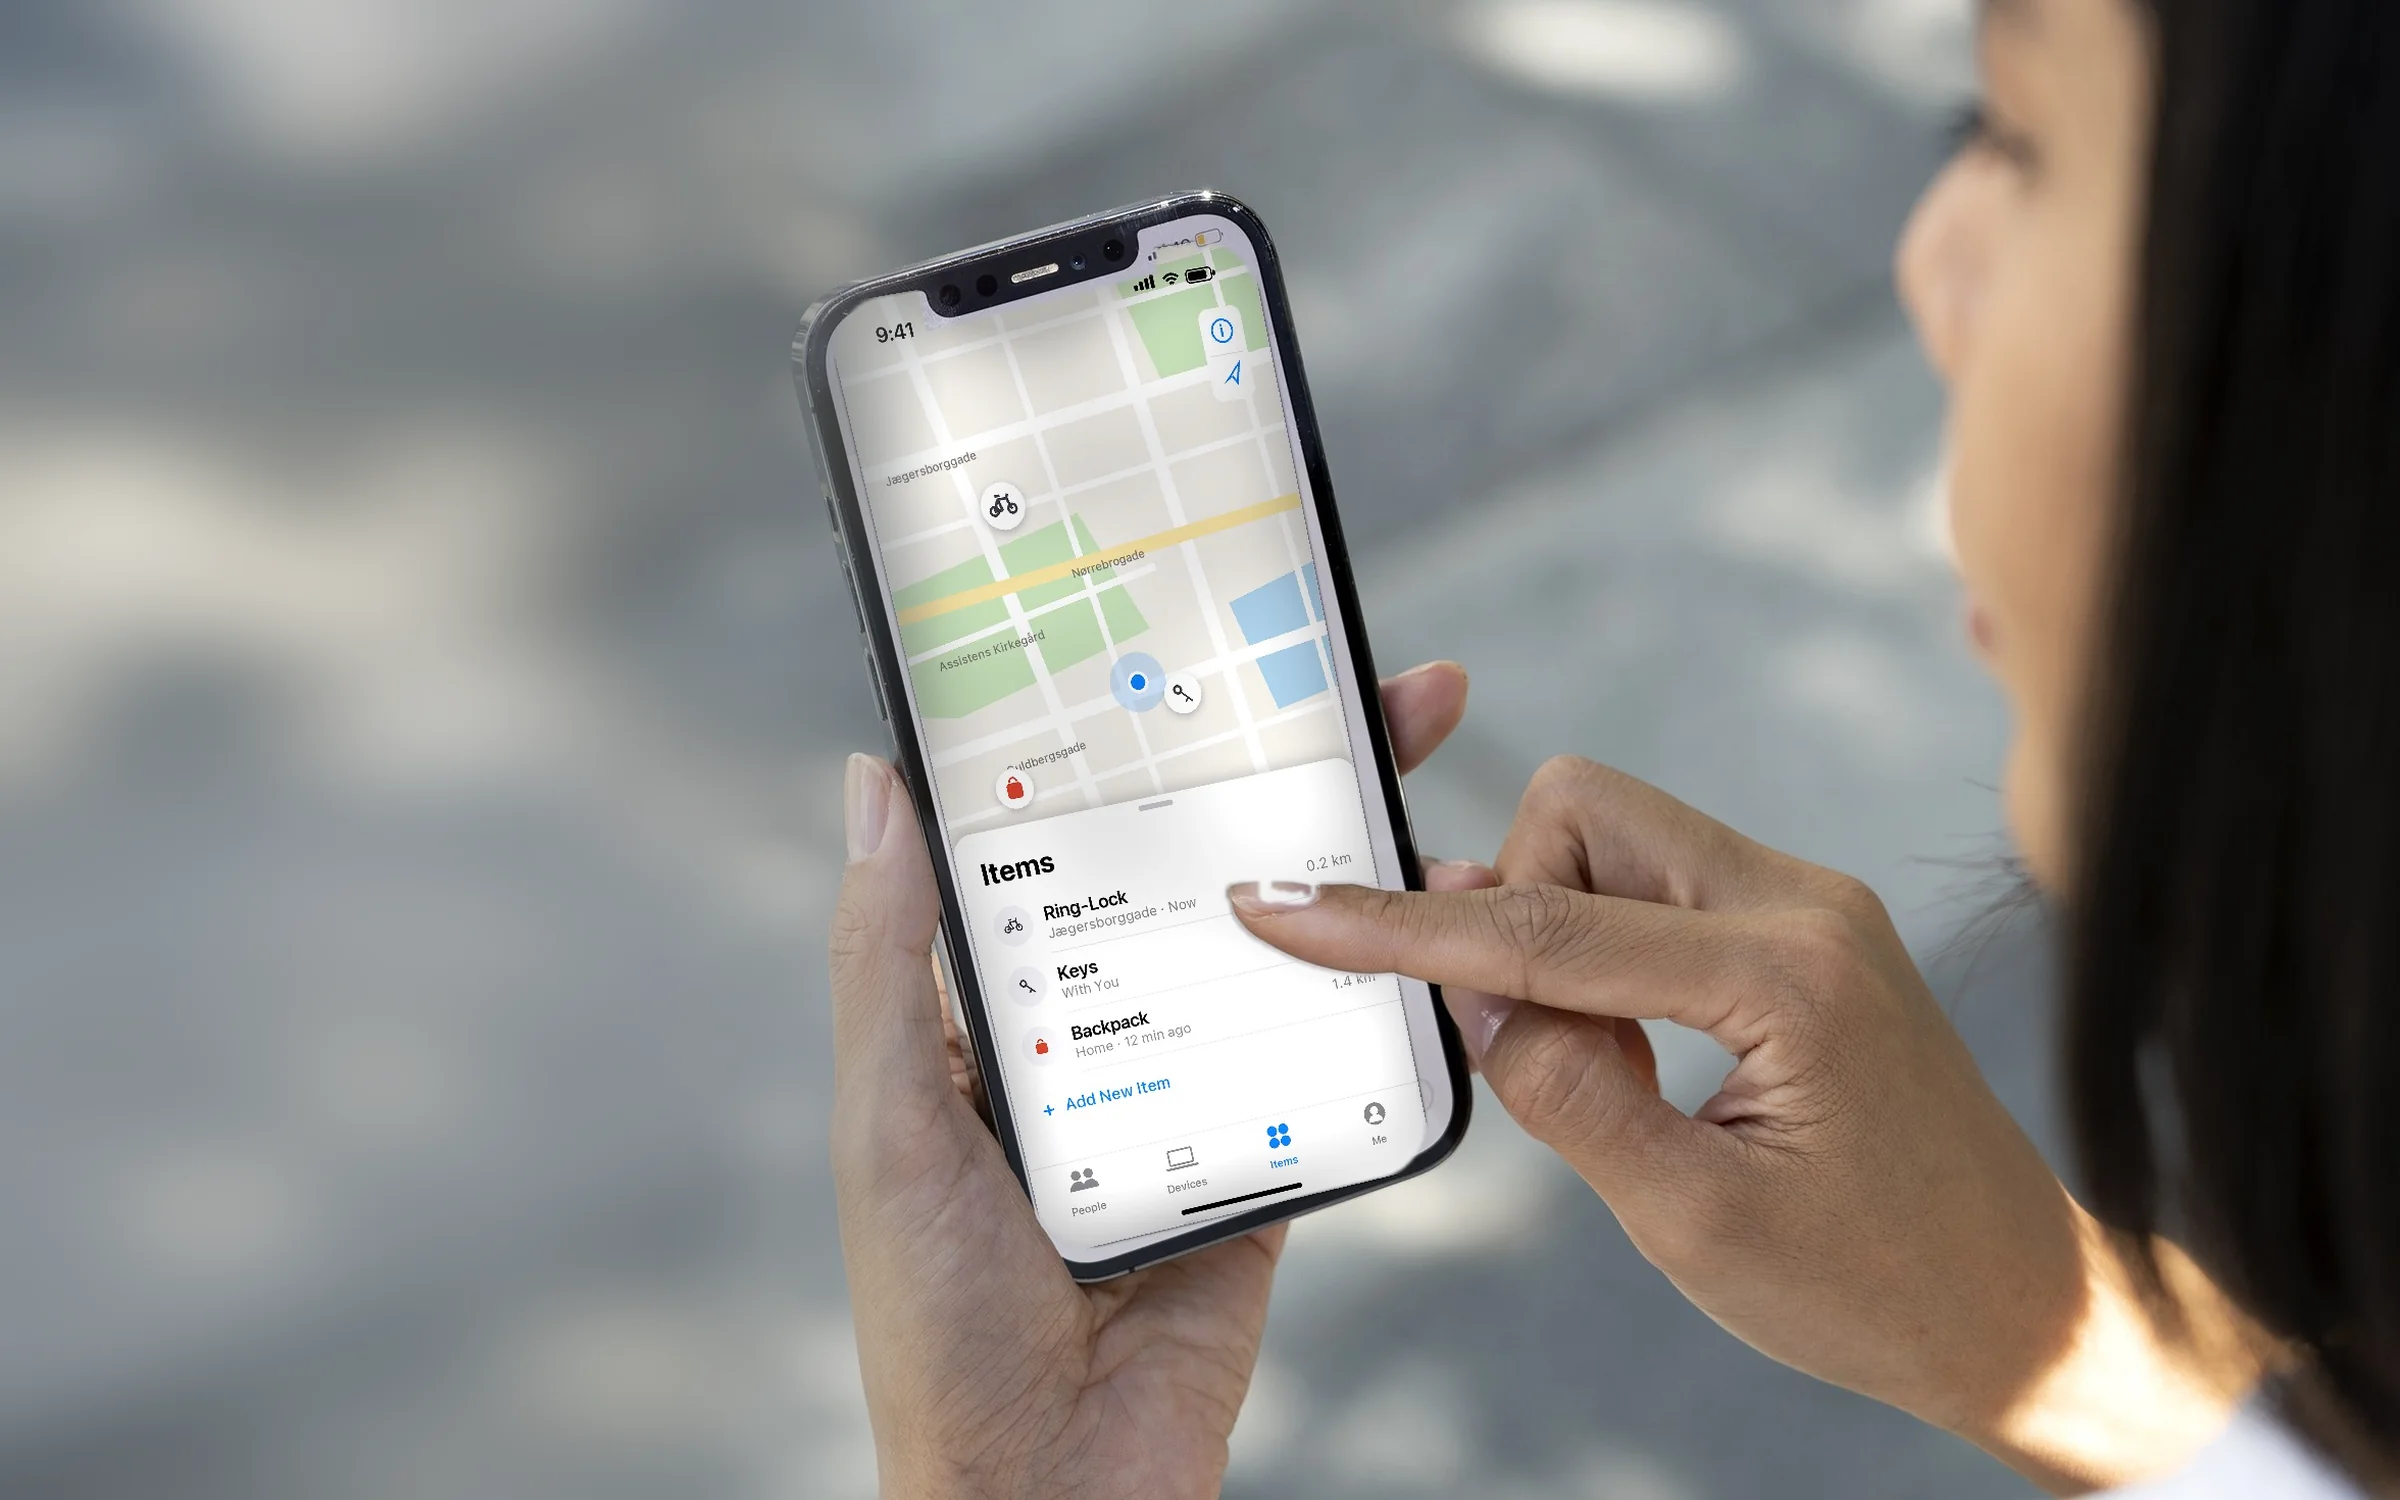
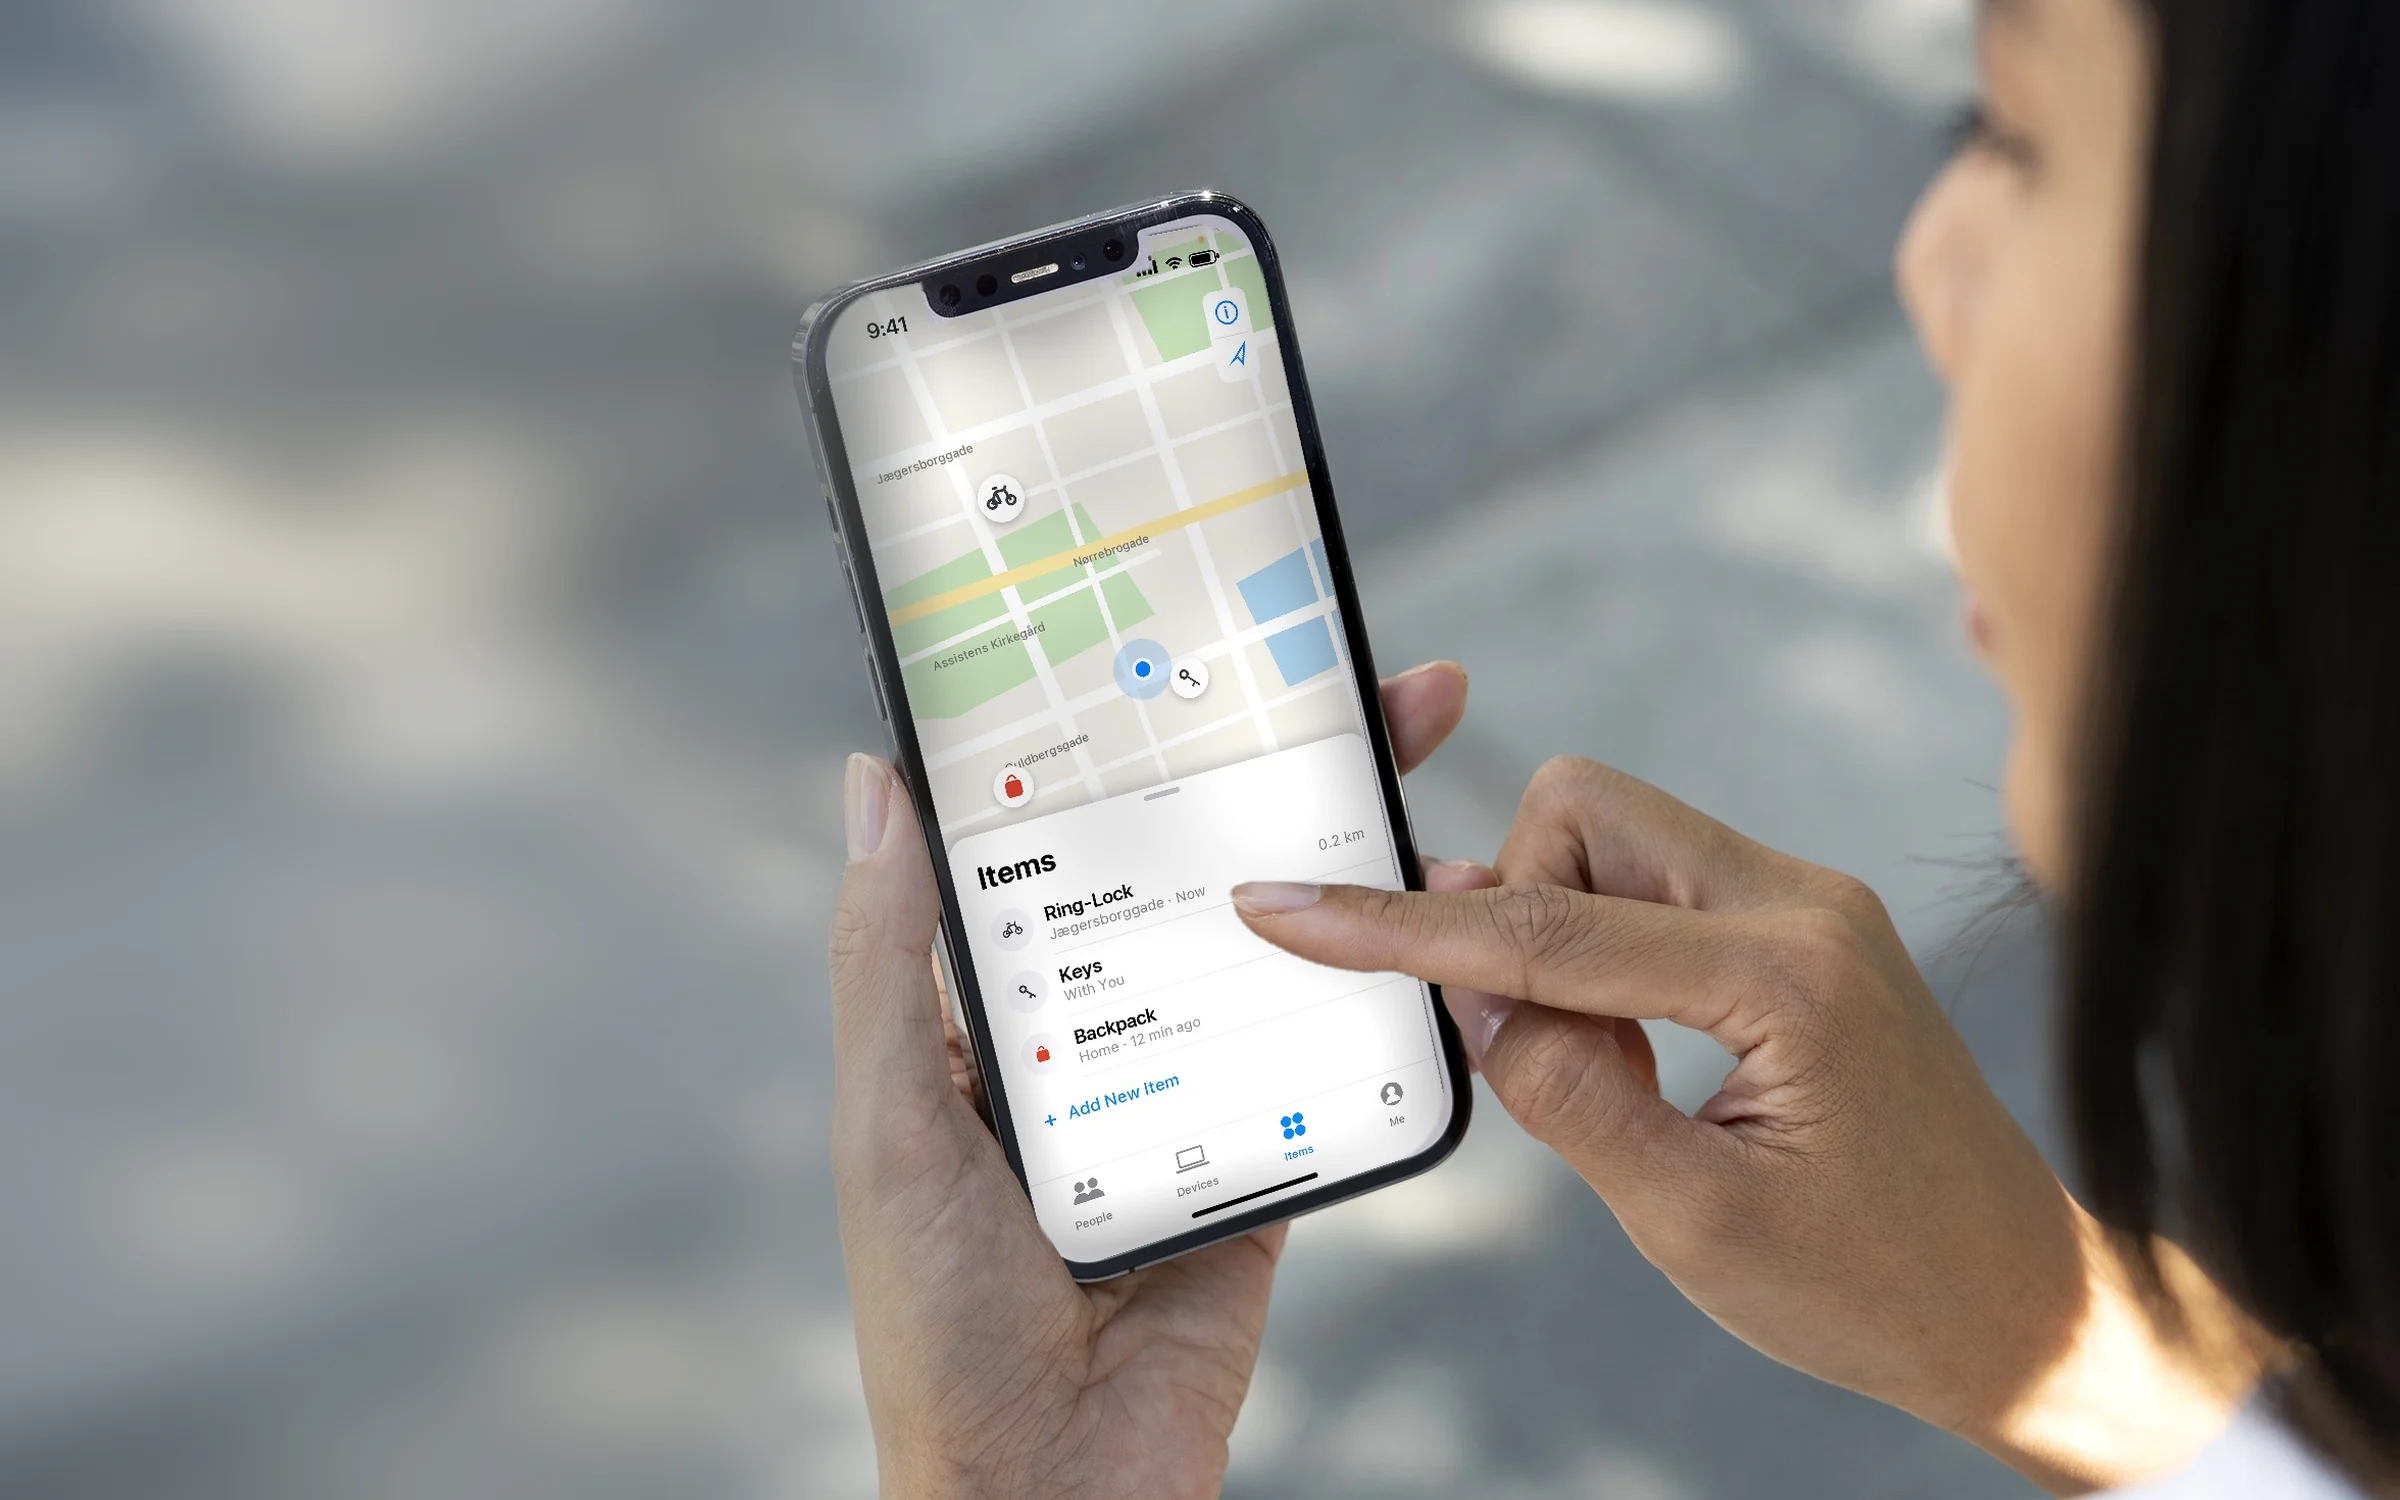
Find My frame: screen fitted to the phone's real screen edges (measured), fingertip and nail kept, bigger phone on mobile

diff --git a/index.html b/index.html
@@ -199,8 +199,8 @@
   <section class="tale" id="moved" data-nav-section="intro" data-tone="dark" data-bg="#202F30" data-key='{"hide":1}' aria-labelledby="h1c">
     <div class="tale__pin">
       <figure class="tale__shot is-on" data-i="0"><picture><source media="(max-width: 760px)" srcset="images/story/crowd-m.webp"><img src="images/story/crowd-wide.webp" alt="She looks around a park, trying to remember where she parked" decoding="async"></picture></figure>
-      <figure class="tale__shot" data-i="1"><picture><source media="(max-width: 760px)" srcset="images/story/findmy-m.webp?v=2"><img src="images/story/findmy-wide.webp?v=4" alt="On her iPhone, a map shows where her bike is" decoding="async"></picture></figure>
-      <figure class="tale__shot" data-i="2"><picture><source media="(max-width: 760px)" srcset="images/story/search-m.webp"><img src="images/story/search-wide.webp?v=4" alt="She taps Unlock in the LAAS app" decoding="async" loading="lazy"></picture></figure>
+      <figure class="tale__shot" data-i="1"><picture><source media="(max-width: 760px)" srcset="images/story/findmy-m.webp?v=4"><img src="images/story/findmy-wide.webp?v=5" alt="On her iPhone, a map shows where her bike is" decoding="async"></picture></figure>
+      <figure class="tale__shot" data-i="2"><picture><source media="(max-width: 760px)" srcset="images/story/search-m.webp?v=2"><img src="images/story/search-wide.webp?v=4" alt="She taps Unlock in the LAAS app" decoding="async" loading="lazy"></picture></figure>
       <figure class="tale__shot" data-i="3"><picture><source media="(max-width: 760px)" srcset="images/story/ride-m.webp"><img src="images/story/ride-wide.webp" alt="She rides away across the square" decoding="async" loading="lazy"></picture></figure>
       <div class="tale__copy">
         <p class="tale__index label"><span class="tale__count"><b>01</b> / 04</span> Ring-Lock</p>
